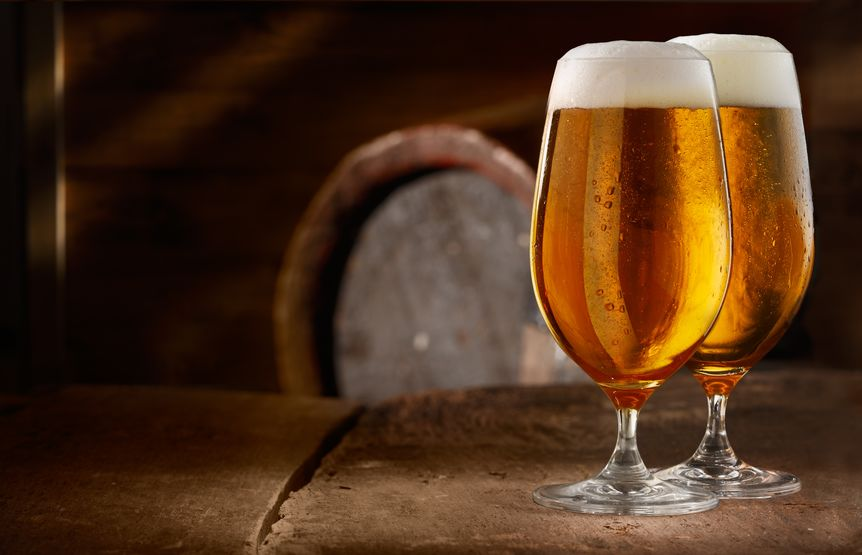
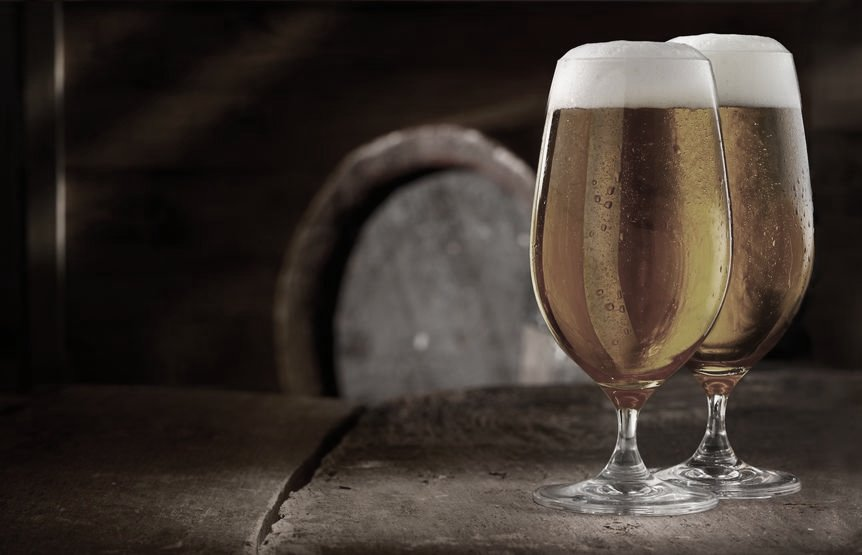
Home pagina header

diff --git a/css/style.css b/css/style.css
@@ -6,6 +6,16 @@
 
 header
 {
+    background-image: url("../img/achtergrond1.jpg");
+    background-repeat: no-repeat;
+    background-size: cover;
+    backdrop-filter: saturation(25%);
+    height: 700px;
+}
+
+header div
+{
+    vertical-align: baseline;
     display: flex;
     align-items: center;
 }
@@ -15,7 +25,7 @@ header
     height: 150px;
 }
 
-nav a
+#knop
 {
     text-decoration: none;
     color: black;
@@ -36,10 +46,35 @@ nav
     display: flex;
     justify-content: space-around;
     width: 80%;
+    vertical-align: baseline;
 }
 
-header a img
+#account-icon
 {
     width: 40px;
     vertical-align: middle;
+    filter: invert(100%);
+}
+
+header h1
+{
+    font-family: 'Fredoka One', cursive;
+    color: white;
+    text-align: center;
+    margin-top: 50px;
+    font-size: 100px;
+}
+
+header h2
+{
+    font-family: 'Fredoka One', cursive;
+    color: white;
+    text-align: center;
+    font-size: 50px;
+}
+
+.header-content
+{
+    display: flex;
+    flex-direction: column;
 }

diff --git a/index.php b/index.php
@@ -3,25 +3,39 @@
 <head>
     <meta charset="UTF-8">
     <meta http-equiv="X-UA-Compatible" content="IE=edge">
-    <meta name="viewport" content="width=device-width, initial-scale=1.0">
+    <meta name="viewport" content="width=device-width, initial-scale=1">
     <title>Document</title>
-    <link rel="stylesheet" href="css/style.css">
+    <link rel="stylesheet" href="css/style.css?1">
     <link rel="preconnect" href="https://fonts.googleapis.com">
     <link rel="preconnect" href="https://fonts.gstatic.com" crossorigin>
     <link href="https://fonts.googleapis.com/css2?family=Inter:wght@300&display=swap" rel="stylesheet">
+    <link href="https://fonts.googleapis.com/css2?family=Fredoka+One&display=swap" rel="stylesheet">
+    <link href="https://cdn.jsdelivr.net/npm/bootstrap@5.3.0-alpha1/dist/css/bootstrap.min.css" rel="stylesheet" integrity="sha384-GLhlTQ8iRABdZLl6O3oVMWSktQOp6b7In1Zl3/Jr59b6EGGoI1aFkw7cmDA6j6gD" crossorigin="anonymous">
 </head>
 <body>
     <header>
-        <img id="logo" src="img/logo.png" alt="logo">
-        <nav>
-            <a href="#">Home</a>
-            <a href="#">Bestellen</a>
-            <a href="#">Reviews</a>
-            <a href="#">Over Ons</a>
-            <a href="#">Contact</a>
-        </nav>
-        <a href="pages/conn.php"><img src="img/account.png" alt="login"></a>
-    </header>`
+        <div>
+            <img id="logo" src="img/logo.png" alt="logo">
+            <nav>
+                <a href="#" id="knop">Home</a>
+                <a href="#" id="knop">Bestellen</a>
+                <a href="#" id="knop">Reviews</a>
+                <a href="#" id="knop">Over Ons</a>
+                <a href="#" id="knop">Contact</a>
+            </nav>
+            <a href="pages/login.php"><img src="img/account.png" alt="login" id="account-icon"></a>
+        </div>
+        <div class="header-content">
+            <h1>
+                Bier Hier
+            </h1>
+            <h2>
+                Altijd voor jou
+            </h2>
+            <a href="#" id="knop">Bestellen</a>
+            <img src="img/18plus.png" alt="18+">
+        </div>
+    </header>
 
     <main>
 
@@ -30,5 +44,8 @@
     <footer>
         
     </footer>
+
+    <script src="https://cdn.jsdelivr.net/npm/bootstrap@5.3.0-alpha1/dist/js/bootstrap.bundle.min.js" integrity="sha384-w76AqPfDkMBDXo30jS1Sgez6pr3x5MlQ1ZAGC+nuZB+EYdgRZgiwxhTBTkF7CXvN" crossorigin="anonymous"></script>
+
 </body>
 </html>

diff --git a/pages/inlog.php b/pages/inlog.php
@@ -1,0 +1,27 @@
+<!DOCTYPE html>
+<html lang="en">
+<head>
+    <meta charset="UTF-8">
+    <meta http-equiv="X-UA-Compatible" content="IE=edge">
+    <meta name="viewport" content="width=device-width, initial-scale=1.0">
+    <title>Document</title>
+</head>
+<body>
+
+
+    <?php
+        require 'pages/comm.php'
+
+        $username = $_POST['username'];
+        $password = $_POST['password'];
+        
+
+        $sql = "INSERT INTO users (username, password)
+        VALUES ('$username', '$password')";
+        // use exec() because no results are returned
+        $conn->exec($sql);
+    ?>
+
+
+</body>
+</html>

diff --git a/pages/login.php b/pages/login.php
@@ -9,9 +9,17 @@
 <body>
     
 
-    <?php
-        require 'pages/comm.php'
-    ?>
+<form name="loginform" action="inlog.php" method="post">
+
+    <label for="user">User name:</label><br>
+    <input type="text" id="user" name="user"><br>
+
+    <label for="password">password:</label><br>
+    <input type="password" id="password" name="password"><br>
+    
+    <br>
+    <input type="submit" value="Submit">
+    </form>
 
 
 </body>
